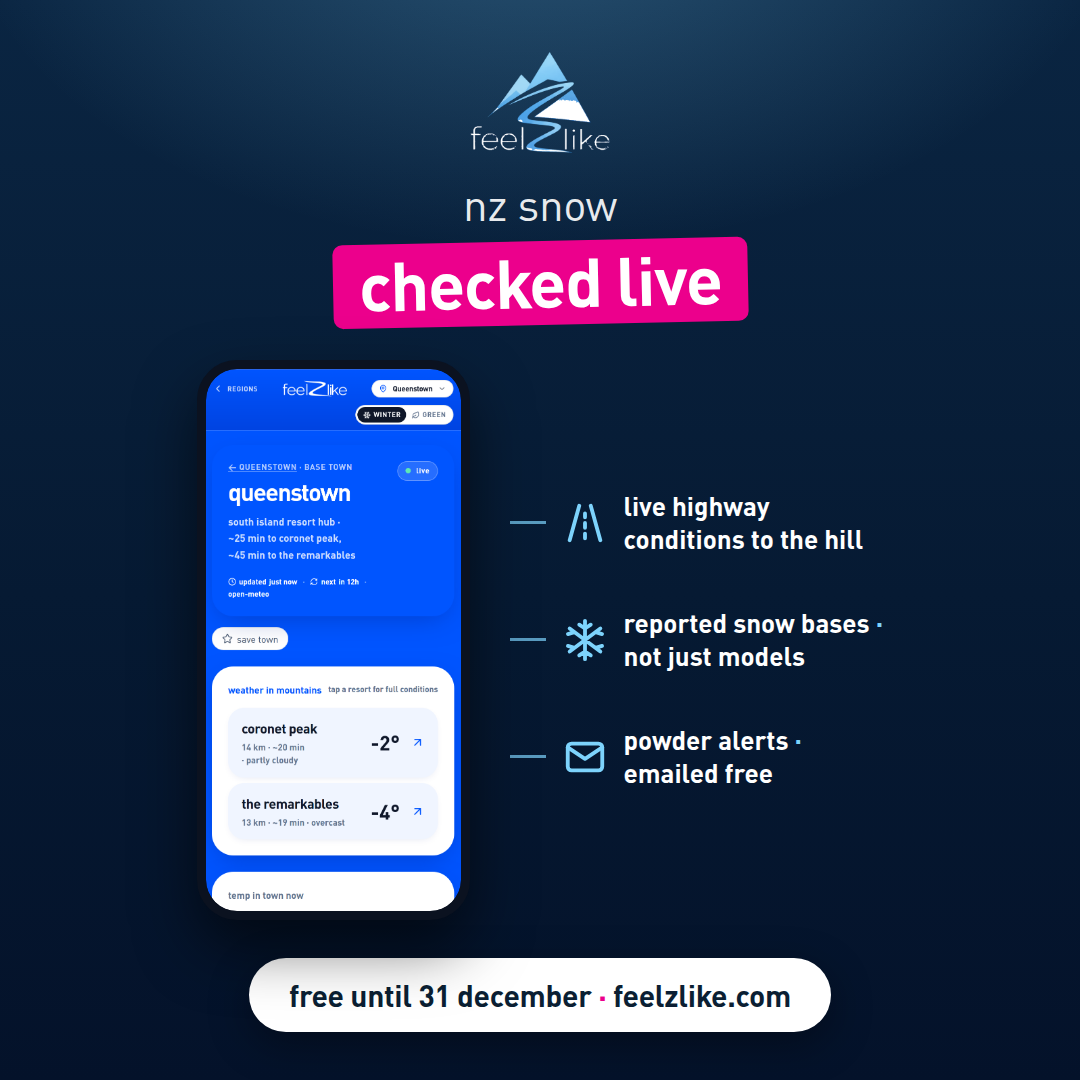
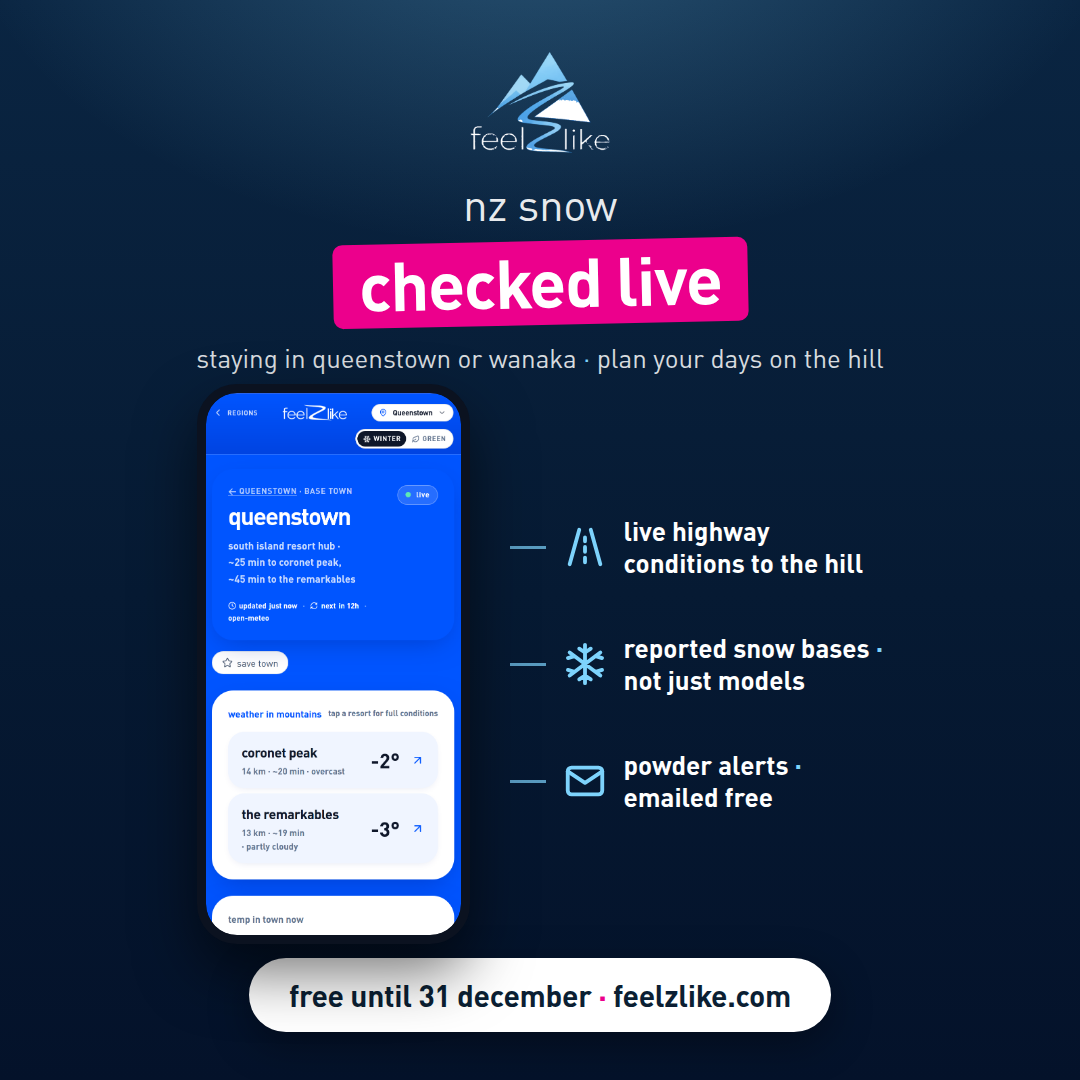
Update social ad assets and rebuild scripts
Replit-Commit-Author: Agent

diff --git a/artifacts/api-server/src/scripts/build-social-ads.ts b/artifacts/api-server/src/scripts/build-social-ads.ts
@@ -55,6 +55,8 @@ interface Version {
   kicker: string;
   /** big headline (the boxed line) */
   headline: string;
+  /** small audience line under the headline */
+  audience: string;
   /** live page to screenshot inside the phone */
   screenshotPath: string;
   /** force this region's season pill to winter before the shot (JP pages sit in green season all summer) */
@@ -80,6 +82,7 @@ const VERSIONS: Version[] = [
     id: "overall",
     kicker: "meet",
     headline: "the snow app",
+    audience: "for resort town stays · and everyone heading to the snow",
     screenshotPath: "/",
     callouts: [
       { icon: IC.snow, text: "live snow and feels-like temps on every mountain" },
@@ -92,6 +95,7 @@ const VERSIONS: Version[] = [
     id: "japan",
     kicker: "planning japan?",
     headline: "20 ski regions",
+    audience: "plan your stay · town by town · mountain by mountain",
     screenshotPath: "/hakuba-valley/hakuba/",
     forceWinterRegionId: "hakuba-valley",
     callouts: [
@@ -105,6 +109,7 @@ const VERSIONS: Version[] = [
     id: "australia",
     kicker: "is it dumping",
     headline: "right now?",
+    audience: "staying in town or heading up · plan around the weather",
     screenshotPath: "/snowy-mountains/jindabyne/",
     callouts: [
       { icon: IC.gauge, text: "live snow · feels-like temps at the lifts" },
@@ -117,6 +122,7 @@ const VERSIONS: Version[] = [
     id: "nz",
     kicker: "nz snow",
     headline: "checked live",
+    audience: "staying in queenstown or wanaka · plan your days on the hill",
     screenshotPath: "/queenstown/queenstown/",
     callouts: [
       { icon: IC.road, text: "live highway conditions to the hill" },
@@ -208,6 +214,8 @@ html,body { width:${fmt.w}px; height:${fmt.h}px; }
   font-size:${story ? 96 : 68}px; font-weight:700; letter-spacing:-0.02em; line-height:1;
   border-radius:10px; transform:rotate(-1.2deg);
 }
+.audience { margin-top:${story ? 30 : 16}px; font-size:${story ? 34 : 26}px; font-weight:400; letter-spacing:0; color:rgba(255,255,255,0.85); text-align:center; }
+.audience .dot { color:#7dd3fc; }
 .stage { flex:1; width:100%; display:flex; align-items:center; justify-content:center; gap:${story ? 48 : 40}px; margin-top:${story ? 40 : 26}px; min-height:0; }
 .phone {
   height:${story ? 980 : 560}px; aspect-ratio:390/800; flex:none;
@@ -236,6 +244,7 @@ html,body { width:${fmt.w}px; height:${fmt.h}px; }
   <img class="logo" src="${assets.logo}" alt="feelzlike">
   <div class="kicker">${v.kicker}</div>
   <div class="headline">${v.headline}</div>
+  <div class="audience">${v.audience.split(" · ").join(' <span class="dot">·</span> ')}</div>
   <div class="stage">
     <div class="phone"><img src="${assets.shot}" alt=""></div>
     <div class="cos">${v.callouts.map(calloutHtml).join("")}</div>
